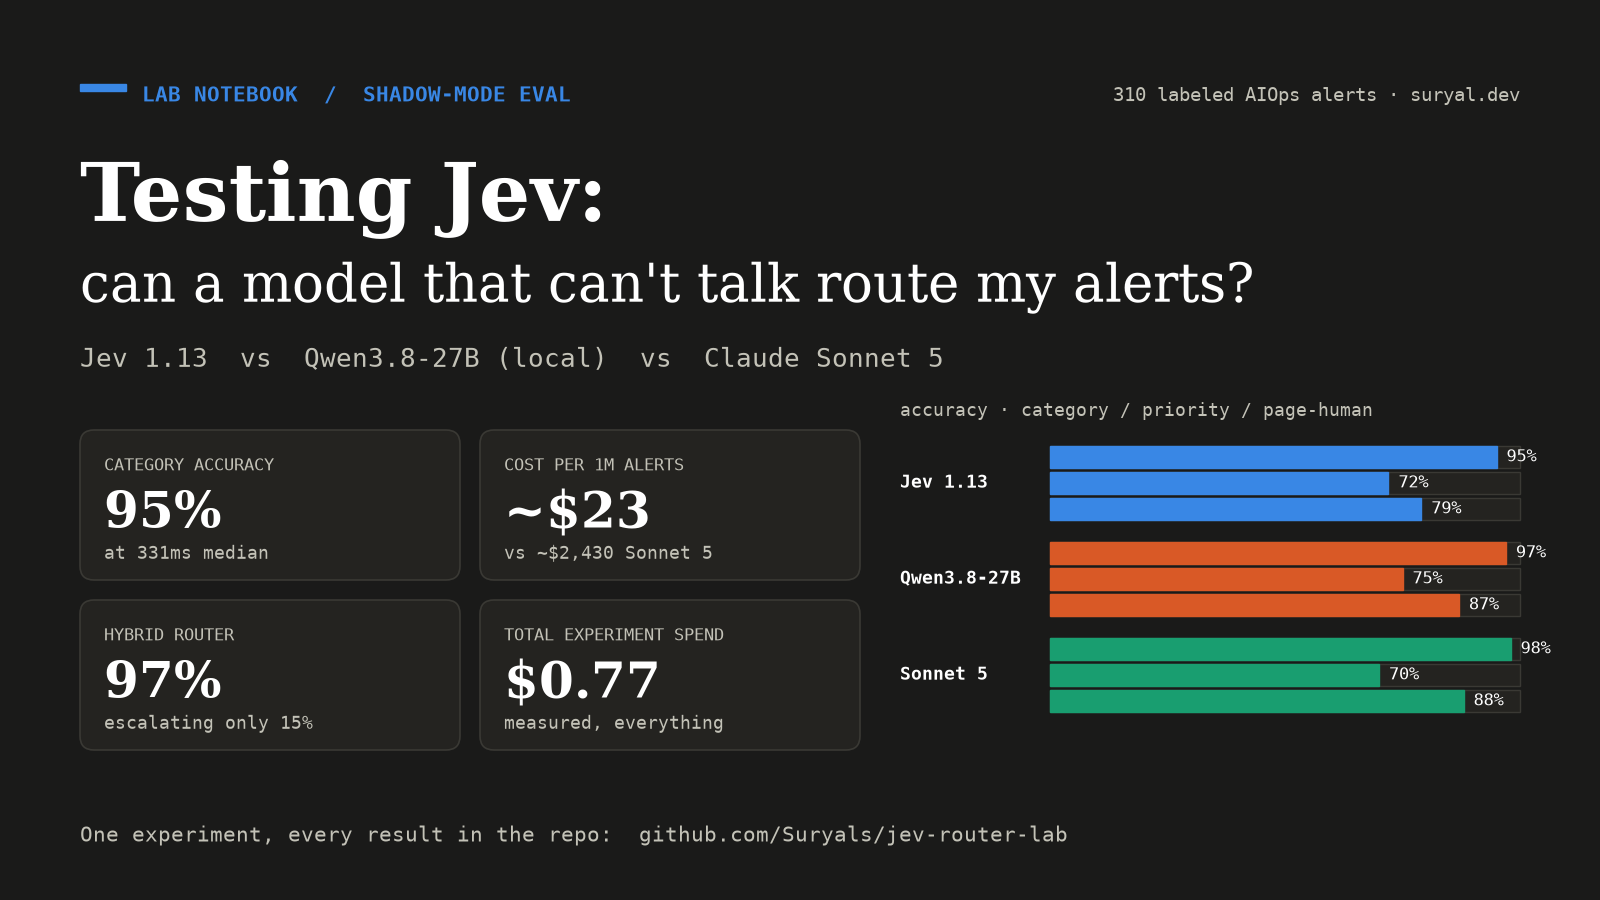
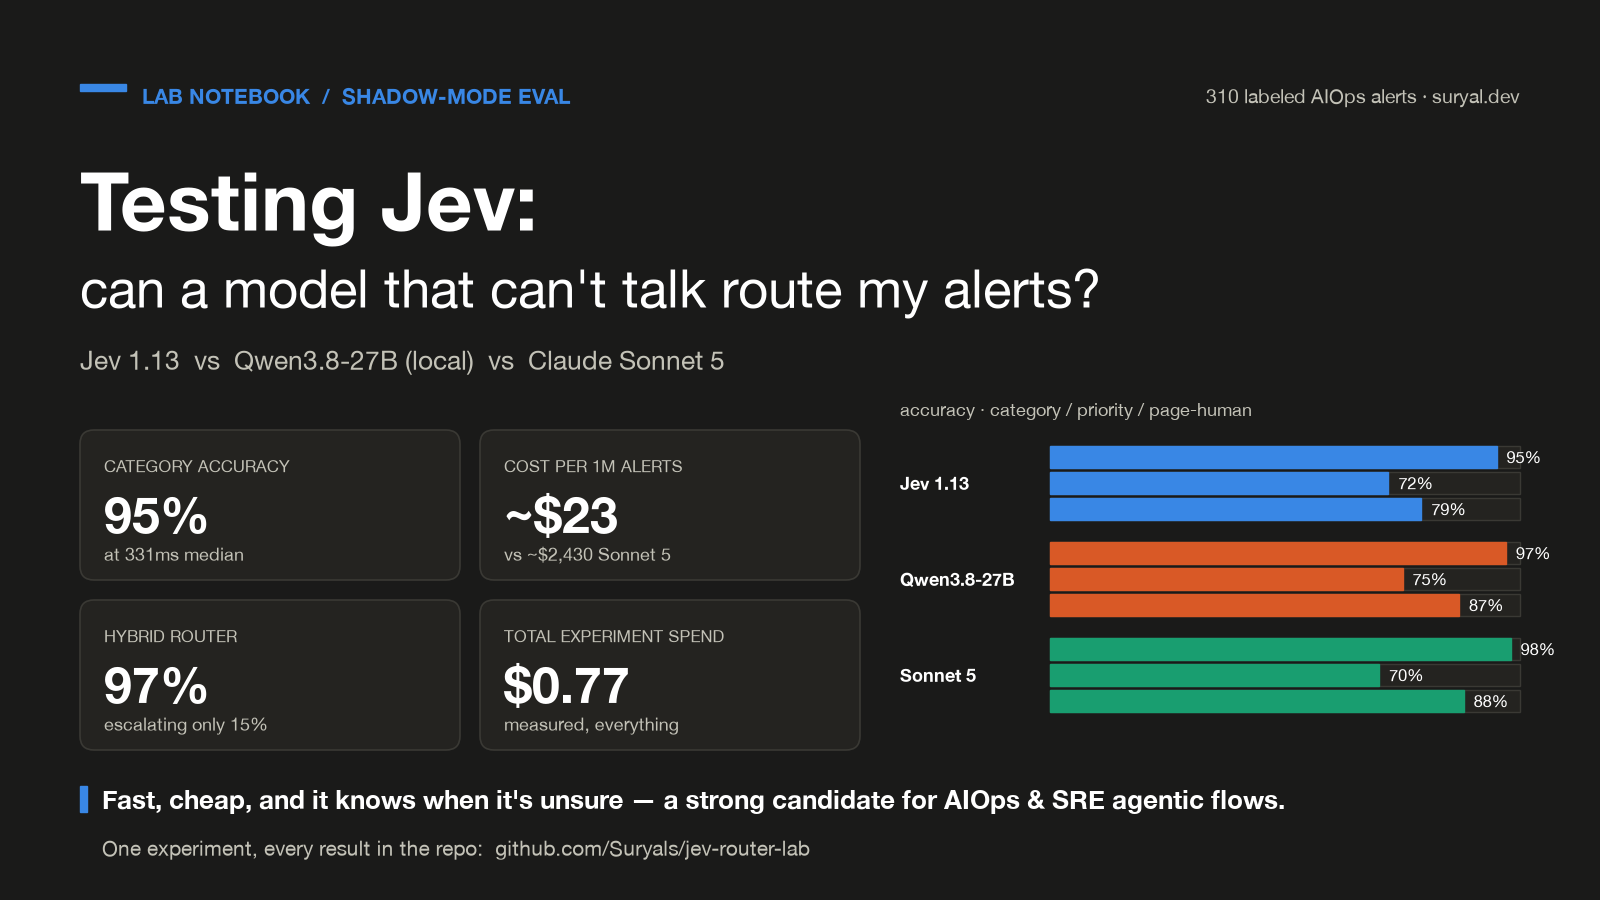
Cards: Helvetica Neue + AIOps/SRE takeaway strip; add takeaway to LinkedIn copy

diff --git a/article/cards.py b/article/cards.py
@@ -42,26 +42,26 @@ def card(mode: str, c: dict) -> None:
     # accent tick + eyebrow
     ax.add_patch(plt.Rectangle((80, 84), 46, 7, color=c["series"][0]))
     ax.text(142, 96, "LAB NOTEBOOK  /  SHADOW-MODE EVAL", fontsize=15,
-            color=c["series"][0], fontweight="bold", family="monospace", va="center")
+            color=c["series"][0], fontweight="bold", family="Helvetica Neue", va="center")
     ax.text(1520, 96, "310 labeled AIOps alerts · suryal.dev", fontsize=14,
-            color=c["ink2"], family="monospace", va="center", ha="right")
+            color=c["ink2"], family="Helvetica Neue", va="center", ha="right")
 
     ax.text(80, 200, "Testing Jev:", fontsize=58, color=c["ink"],
-            family="serif", fontweight="bold", va="center")
+            family="Helvetica Neue", fontweight="bold", va="center")
     ax.text(80, 288, "can a model that can't talk route my alerts?",
-            fontsize=38, color=c["ink"], family="serif", va="center")
+            fontsize=38, color=c["ink"], family="Helvetica Neue", va="center")
     ax.text(80, 360, "Jev 1.13  vs  Qwen3.8-27B (local)  vs  Claude Sonnet 5",
-            fontsize=19, color=c["ink2"], family="monospace", va="center")
+            fontsize=19, color=c["ink2"], family="Helvetica Neue", va="center")
 
     # accuracy mini-chart (right side)
     x0, y0, w = 900, 430, 620
     ax.text(x0, y0 - 14, "accuracy · category / priority / page-human",
-            fontsize=13, color=c["ink2"], family="monospace")
+            fontsize=13, color=c["ink2"], family="Helvetica Neue")
     bar_h, gap = 22, 10
     y = y0 + 16
     for mi, (model, vals) in enumerate(BARS.items()):
         ax.text(x0, y + bar_h * 1.5 + gap, model, fontsize=14, color=c["ink"],
-                family="monospace", fontweight="bold", va="center",
+                family="Helvetica Neue", fontweight="bold", va="center",
                 rotation=0) if False else None
         for vi, v in enumerate(vals):
             yy = y + vi * (bar_h + 4)
@@ -70,9 +70,9 @@ def card(mode: str, c: dict) -> None:
             ax.add_patch(plt.Rectangle((x0 + 150, yy), (w - 150) * v / 100, bar_h,
                                        color=c["series"][mi]))
             ax.text(x0 + 150 + (w - 150) * v / 100 + 10, yy + bar_h / 2, f"{v}%",
-                    fontsize=12, color=c["ink"], family="monospace", va="center")
+                    fontsize=12, color=c["ink"], family="Helvetica Neue", va="center")
         ax.text(x0, y + (bar_h + 4) * 1.5 - 2, model, fontsize=13, color=c["ink"],
-                family="monospace", fontweight="bold", va="center")
+                family="Helvetica Neue", fontweight="bold", va="center")
         y += 3 * (bar_h + 4) + 18
 
     # stat tiles (left column, 2x2)
@@ -84,14 +84,21 @@ def card(mode: str, c: dict) -> None:
                                     boxstyle="round,pad=0,rounding_size=14",
                                     fc=c["panel"], ec=c["line"], lw=1.2))
         ax.text(px + 24, py + 36, label, fontsize=12, color=c["ink2"],
-                family="monospace", va="center")
+                family="Helvetica Neue", va="center")
         ax.text(px + 24, py + 84, big, fontsize=36, color=c["ink"],
-                family="serif", fontweight="bold", va="center")
+                family="Helvetica Neue", fontweight="bold", va="center")
         ax.text(px + 24, py + 124, sub, fontsize=13, color=c["ink2"],
-                family="monospace", va="center")
+                family="Helvetica Neue", va="center")
 
-    ax.text(80, 836, "One experiment, every result in the repo:  github.com/Suryals/jev-router-lab",
-            fontsize=15, color=c["ink2"], family="monospace", va="center")
+    # takeaway strip
+    ax.add_patch(plt.Rectangle((80, 786), 7, 26, color=c["series"][0]))
+    ax.text(102, 799, "Fast, cheap, and it knows when it's unsure — a strong candidate "
+                      "for AIOps & SRE agentic flows.",
+            fontsize=19, color=c["ink"], family="Helvetica Neue",
+            fontweight="bold", va="center")
+
+    ax.text(102, 848, "One experiment, every result in the repo:  github.com/Suryals/jev-router-lab",
+            fontsize=15, color=c["ink2"], family="Helvetica Neue", va="center")
 
     out = IMG / f"card_{mode}.png"
     fig.savefig(out, facecolor=c["surface"])

diff --git a/article/social.md b/article/social.md
@@ -25,6 +25,11 @@ it's right 98% of the time. Which means you can let Jev route everything and
 only send the uncertain 15% to an LLM. That hybrid scored the same 97% as
 the LLMs did on their own.
 
+For agentic AIOps and SRE flows specifically, that's the profile you want in
+the routing layer: fast enough to sit in the paging path, cheap enough to
+run on every alert, and it tells you when to escalate instead of guessing
+confidently.
+
 It's noticeably worse at the yes/no "page a human?" call. And all three
 models were mediocre at assigning priority, which probably says more about
 my labels than about any of the models. Both of those are in the caveats
